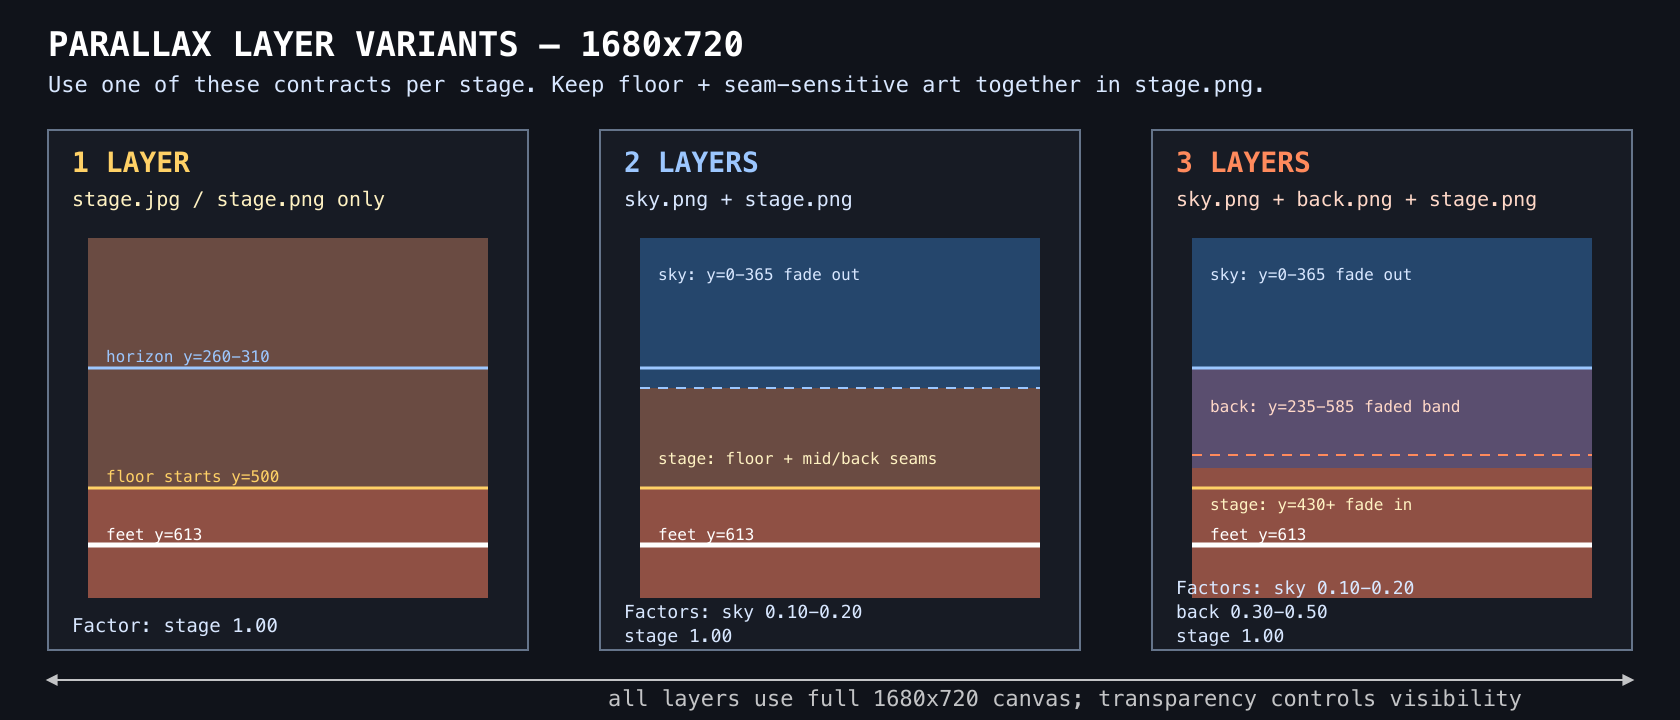
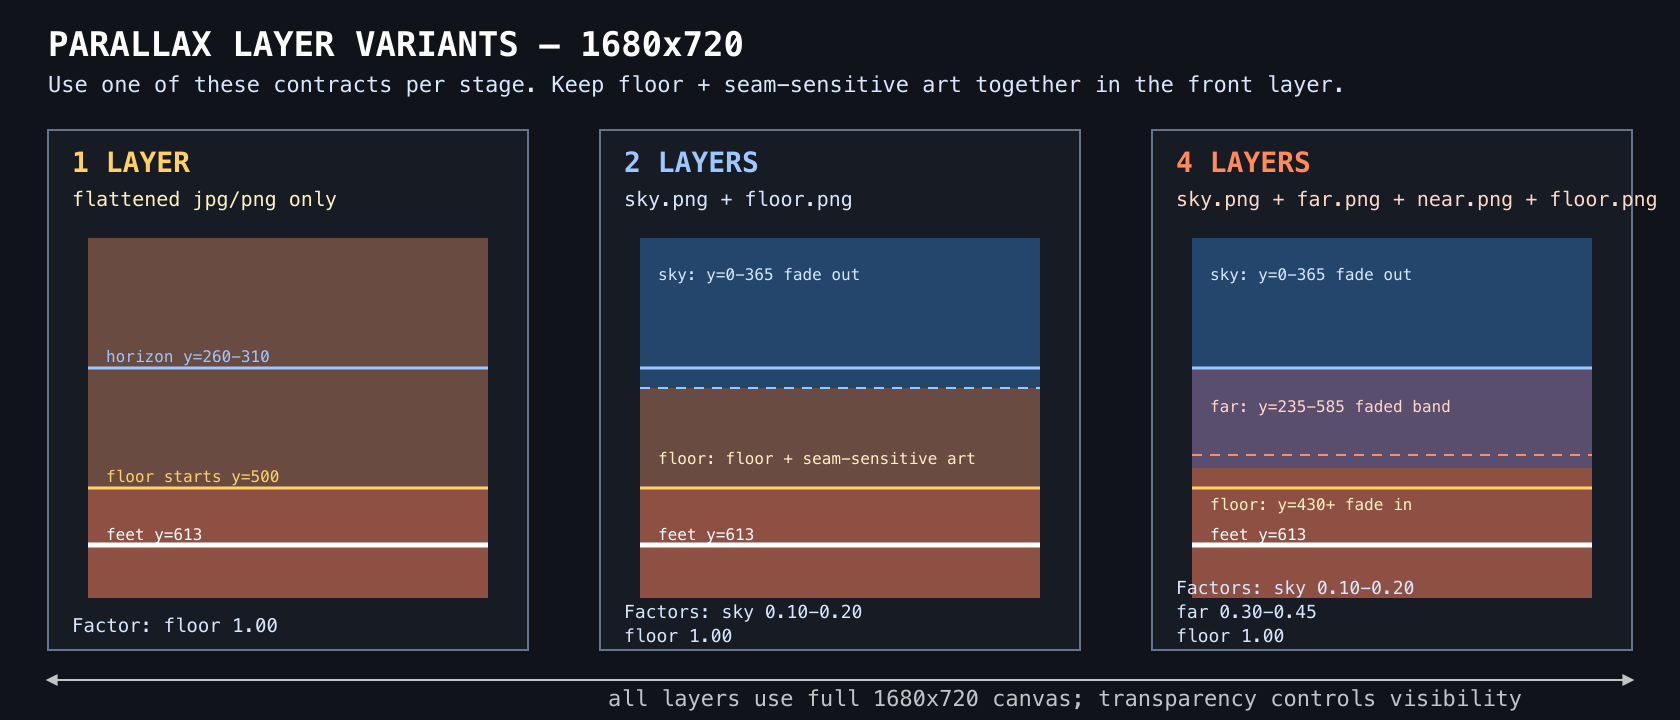
fgihter sprite template and chiba example

diff --git a/src/scenes/FightScene.ts b/src/scenes/FightScene.ts
@@ -36,6 +36,8 @@ const CELL_W = 288;
 const CELL_H = 384;
 const SHADOW_W = 96;
 const SHADOW_H = 36;
+const SHADOW_PAD = 8;
+const SPRITE_FOOT_OFFSET_Y = 16;
 const PHASE_NAME = ['startup', 'active', 'recovery'] as const;
 // per-special projectile draw size (square px); default 72
 const PROJ_SIZE: Record<string, number> = {
@@ -58,7 +60,7 @@ const LEGACY_BUTTON: Record<string, string> = {
 
 const BAR_W = 320;
 const BAR_X1 = 100;
-const DEFAULT_LAYER_FACTORS = { sky: 0.15, back: 0.4, stage: 1.0 } as const;
+const DEFAULT_LAYER_FACTORS = { sky: 0.15, far: 0.35, near: 0.7, floor: 1.0 } as const;
 
 interface Spark {
   x: number;
@@ -252,8 +254,9 @@ export class FightScene extends Phaser.Scene {
     if (layerDefs) {
       const ordered = [
         ['sky', layerDefs.sky],
-        ['back', layerDefs.back],
-        ['stage', layerDefs.stage],
+        ['far', layerDefs.far],
+        ['near', layerDefs.near],
+        ['floor', layerDefs.floor],
       ] as const;
       for (const [name, layer] of ordered) {
         if (!layer) continue;
@@ -855,31 +858,60 @@ export class FightScene extends Phaser.Scene {
     for (const w of weights) max = Math.max(max, w);
     if (max <= 0) return null;
 
+    const maskW = SHADOW_W + SHADOW_PAD * 2;
+    const maskH = SHADOW_H + SHADOW_PAD * 2;
+    const mask = document.createElement('canvas');
+    mask.width = maskW;
+    mask.height = maskH;
+    const maskCtx = mask.getContext('2d');
+    if (!maskCtx) return null;
     const out = document.createElement('canvas');
-    out.width = SHADOW_W;
-    out.height = SHADOW_H;
+    out.width = maskW;
+    out.height = maskH;
     const ctx = out.getContext('2d');
     if (!ctx) return null;
-    const img = ctx.createImageData(SHADOW_W, SHADOW_H);
-    const cy = SHADOW_H * 0.54;
-    for (let y = 0; y < SHADOW_H; y++) {
-      const dy = (y - cy) / (SHADOW_H * 0.52);
+    const img = maskCtx.createImageData(maskW, maskH);
+    const cy = SHADOW_PAD + SHADOW_H * 0.56;
+    for (let y = SHADOW_PAD; y < SHADOW_PAD + SHADOW_H; y++) {
+      const dy = Math.abs((y - cy) / (SHADOW_H * 0.5));
       const rowSoft = Math.max(0, 1 - dy * dy);
-      for (let x = 0; x < SHADOW_W; x++) {
-        const col = weights[x] / max;
+      const rowTaper = Math.sqrt(rowSoft);
+      for (let x = SHADOW_PAD; x < SHADOW_PAD + SHADOW_W; x++) {
+        const sx = x - SHADOW_PAD;
+        const nx = Math.abs((sx - SHADOW_W / 2) / (SHADOW_W / 2));
+        const edgeSoft = Math.max(0, 1 - Math.pow(nx, 4) * 0.72);
+        const col = weights[sx] / max;
         const soft =
           col * 0.55 +
-          ((weights[Math.max(0, x - 2)] + weights[Math.min(SHADOW_W - 1, x + 2)]) / (max * 2)) * 0.28 +
-          ((weights[Math.max(0, x - 6)] + weights[Math.min(SHADOW_W - 1, x + 6)]) / (max * 2)) * 0.17;
-        const a = Math.round(245 * Math.min(1, soft) * rowSoft);
-        const i = (y * SHADOW_W + x) * 4;
+          ((weights[Math.max(0, sx - 2)] + weights[Math.min(SHADOW_W - 1, sx + 2)]) / (max * 2)) * 0.28 +
+          ((weights[Math.max(0, sx - 6)] + weights[Math.min(SHADOW_W - 1, sx + 6)]) / (max * 2)) * 0.17;
+        const a = Math.round(250 * Math.min(1, soft) * rowSoft * rowTaper * edgeSoft);
+        const i = (y * maskW + x) * 4;
         img.data[i] = 0;
         img.data[i + 1] = 0;
         img.data[i + 2] = 0;
         img.data[i + 3] = a;
       }
     }
-    ctx.putImageData(img, 0, 0);
+    maskCtx.putImageData(img, 0, 0);
+    ctx.filter = 'blur(8px)';
+    ctx.drawImage(mask, 0, 0);
+    ctx.filter = 'none';
+    ctx.globalCompositeOperation = 'source-over';
+    ctx.fillStyle = 'rgba(0, 0, 0, 0.42)';
+    for (let band = 0; band < 6; band++) {
+      const y = CELL_H - 1 - band * 5;
+      for (let x = 0; x < CELL_W; x += 4) {
+        const alpha = pixels[(y * CELL_W + x) * 4 + 3];
+        if (alpha < 44) continue;
+        const nx = (x - CELL_W / 2) / (CELL_W / 2);
+        const cx = SHADOW_PAD + ((nx * 0.9 + 1) / 2) * SHADOW_W;
+        const cy2 = SHADOW_PAD + SHADOW_H * 0.58;
+        ctx.beginPath();
+        ctx.ellipse(cx, cy2, 4.2, 2.1, 0, 0, Math.PI * 2);
+        ctx.fill();
+      }
+    }
     this.textures.addCanvas(key, out);
     return key;
   }
@@ -903,9 +935,9 @@ export class FightScene extends Phaser.Scene {
     const crouch = k === 'crouch' || f.action.guard === 'crouch' || (k === 'attack' && f.action.moveId?.startsWith('c'));
     const down = k === 'knockdown' || k === 'getup' || (k === 'ko' && f.y >= FLOOR_Y);
     const artW = (def.hurtStand.h * 1.32 * CELL_W) / CELL_H;
-    const width = artW * (down ? 1.68 : crouch ? 1.5 : 1.42) * (air ? Math.max(0.6, 1 - dist / 460) : 1);
-    const height = (down ? 42 : crouch ? 37 : 35) * (air ? Math.max(0.58, 1 - dist / 540) : 1);
-    const alpha = (down ? 0.58 : 0.68) * (air ? Math.max(0.24, 1 - dist / 280) : 1);
+    const width = artW * (down ? 1.78 : crouch ? 1.58 : 1.5) * (air ? Math.max(0.6, 1 - dist / 460) : 1);
+    const height = (down ? 39 : crouch ? 34 : 32) * (air ? Math.max(0.58, 1 - dist / 540) : 1);
+    const alpha = (down ? 0.64 : 0.74) * (air ? Math.max(0.24, 1 - dist / 280) : 1);
     shadow
       .setTexture(key)
       .setVisible(alpha > 0.04)
@@ -996,7 +1028,7 @@ export class FightScene extends Phaser.Scene {
         sprite.setVisible(true);
         const h = def.hurtStand.h * 1.32; // art has margin around the body
         sprite.setDisplaySize((h * CELL_W) / CELL_H, h);
-        sprite.setPosition(f.x, f.y + 6);
+        sprite.setPosition(f.x, f.y + SPRITE_FOOT_OFFSET_Y);
         sprite.setFlipX(f.facing === -1);
         sprite.setRotation(0);
         const frame = this.actionToCell(slot, f);

diff --git a/src/data/stages.ts b/src/data/stages.ts
@@ -9,11 +9,12 @@ export interface StageEntry {
   name: string;
   /** path under public/, relative to the page (matches BootScene loads) */
   file: string;
-  /** Optional parallax layers. `stage` is the near layer and owns the floor. */
+  /** Optional parallax layers, ordered back-to-front by the renderer. */
   layers?: {
     sky?: { file: string; factor?: number };
-    back?: { file: string; factor?: number };
-    stage: { file: string; factor?: number };
+    far?: { file: string; factor?: number };
+    near?: { file: string; factor?: number };
+    floor?: { file: string; factor?: number };
   };
 }
 
@@ -32,9 +33,10 @@ export const STAGES: StageEntry[] = [
   {
     ...stage('chiba-roof', 'CHIBA ROOF'),
     layers: {
-      sky: { file: 'assets/backgrounds/stages/chiba-roof/sky.png', factor: 0.16 },
-      back: { file: 'assets/backgrounds/stages/chiba-roof/back.png', factor: 0.42 },
-      stage: { file: 'assets/backgrounds/stages/chiba-roof/stage.png', factor: 1.0 },
+      sky: { file: 'assets/backgrounds/stages/chiba-roof/sky.png', factor: 0.14 },
+      far: { file: 'assets/backgrounds/stages/chiba-roof/far.png', factor: 0.34 },
+      near: { file: 'assets/backgrounds/stages/chiba-roof/near.png', factor: 0.68 },
+      floor: { file: 'assets/backgrounds/stages/chiba-roof/floor.png', factor: 1.0 },
     },
   },
   stage('dodecahedron', 'DODECAHEDRON'),

diff --git a/src/scenes/BootScene.ts b/src/scenes/BootScene.ts
@@ -37,8 +37,9 @@ export class BootScene extends Phaser.Scene {
     for (const st of STAGES) {
       this.load.image(`bg-stage-${st.id}`, st.file);
       if (st.layers?.sky) this.load.image(`bg-stage-${st.id}-sky`, st.layers.sky.file);
-      if (st.layers?.back) this.load.image(`bg-stage-${st.id}-back`, st.layers.back.file);
-      if (st.layers?.stage) this.load.image(`bg-stage-${st.id}-stage`, st.layers.stage.file);
+      if (st.layers?.far) this.load.image(`bg-stage-${st.id}-far`, st.layers.far.file);
+      if (st.layers?.near) this.load.image(`bg-stage-${st.id}-near`, st.layers.near.file);
+      if (st.layers?.floor) this.load.image(`bg-stage-${st.id}-floor`, st.layers.floor.file);
     }
     for (const { id } of ROSTER) {
       this.load.spritesheet(`sheet-${id}`, `assets/sprites/${id}/sheet.png`, {

diff --git a/docs/STAGE_TEMPLATE.md b/docs/STAGE_TEMPLATE.md
@@ -56,40 +56,43 @@ Put stage landmarks in the middle distance above the fighter strip.
 ## Optional Parallax Layers
 
 Current stages are single flattened images. For stronger depth, use optional
-per-stage layer files with the same `1680x720` canvas. Keep the floor on the
-nearest layer that it visually blends into; do not force a separate floor layer
-when it would create a visible seam.
+per-stage layer files with the same `1680x720` canvas. Keep seam-sensitive art
+together when needed, but stages can use all four layers when the masks are
+properly prepared.
 
 ```text
 public/assets/backgrounds/stages/<id>/
-  sky.png       # optional far sky / mountains, slowest x movement
-  back.png      # optional distant structures / horizon objects
-  stage.png     # required main layer: floor + anything that must seam with it
+  sky.png       # far sky / mountains, slowest x movement
+  far.png       # distant structures / horizon objects
+  near.png      # near set pieces behind fighters
+  floor.png     # walkable floor plane, frontmost stage layer
 ```
 
 Allowed variants:
 
-- `sky + back + stage`: best case for outdoor scenes with clean depth bands.
-- `sky + stage`: good when floor, midground, and landmarks are visually linked.
-- `stage`: flattened fallback, equivalent to the current single-image stages.
+- `sky + far + near + floor`: best case when transparent masks are clean.
+- `sky + far + floor`: useful when near set pieces seam into the floor.
+- `sky + floor`: useful when most art is seam-sensitive.
+- flattened `jpg`: fallback, equivalent to the current single-image stages.
 
 Recommended scroll factors relative to the current fighter-midpoint parallax:
 
 | Layer | Factor | Content |
 | --- | ---: | --- |
 | `sky` | 0.15 | sky, sun, far mountains, clouds |
-| `back` | 0.40 | distant structures, horizon landmarks |
-| `stage` | 1.00 | walkable floor, near props, anything touching the fighter strip |
+| `far` | 0.35 | distant structures, horizon landmarks |
+| `near` | 0.70 | near set pieces behind fighters |
+| `floor` | 1.00 | walkable floor, rails/props that must stay aligned to feet |
 
-The `stage` layer owns the exact floor contract from this document. `sky` and
-`back` should not contain opaque pixels in the fighter strip unless those pixels
-are fully hidden by `stage`.
+The `floor` layer owns the exact floor contract from this document. `sky`,
+`far`, and `near` should not contain opaque pixels in the fighter strip unless
+those pixels are fully hidden by `floor` or are intentionally behind it.
 
 Implementation shape:
 
 - Keep the existing flat `bg-stage-<id>` path as the default.
-- If layer files exist, preload them as `bg-stage-<id>-sky`, `-back`, and
-  `-stage`.
+- If layer files exist, preload them as `bg-stage-<id>-sky`, `-far`, `-near`,
+  and `-floor`.
 - In `FightScene`, draw the layers at the same display size as current stage
   art, but apply `bgOverhang * factor` for each layer.
 - Allow each stage to override the default parallax factors in `src/data/stages.ts`.

diff --git a/docs/FIGHTER_FRAME_TEMPLATE.md b/docs/FIGHTER_FRAME_TEMPLATE.md
@@ -1,0 +1,27 @@
+# Fighter Frame Template
+
+Packed fighter cells are `288x384`. Use this guide when generating or QAing
+individual frame cells:
+
+- [`fighter-frame-template-288x384.png`](fighter-frame-template-288x384.png)
+- [`fighter-frame-template-288x384.svg`](fighter-frame-template-288x384.svg) is the editable source.
+
+## Alignment Contract
+
+- The fighter's lowest sole/contact pixels should land around `y=365` inside
+  the `288x384` cell.
+- The usable foot-contact band is `y=352-374`.
+- Keep transparent padding below the soles; do not crop into shoes, toes, or
+  lying poses.
+- Keep the fighter centered around `x=144` unless the pose intentionally leans
+  or attacks forward.
+- Grounded standing/walking/attack frames should share the same sole height.
+  If one frame floats higher than the others, fix the packed cell or regenerate
+  that frame before tuning renderer offsets.
+
+## Why This Matters
+
+`FightScene` anchors sprites near the bottom of each cell. Dynamic shadows are
+generated from the current frame alpha, so inconsistent foot height makes the
+same fighter appear to hover or sink between animation frames.
+